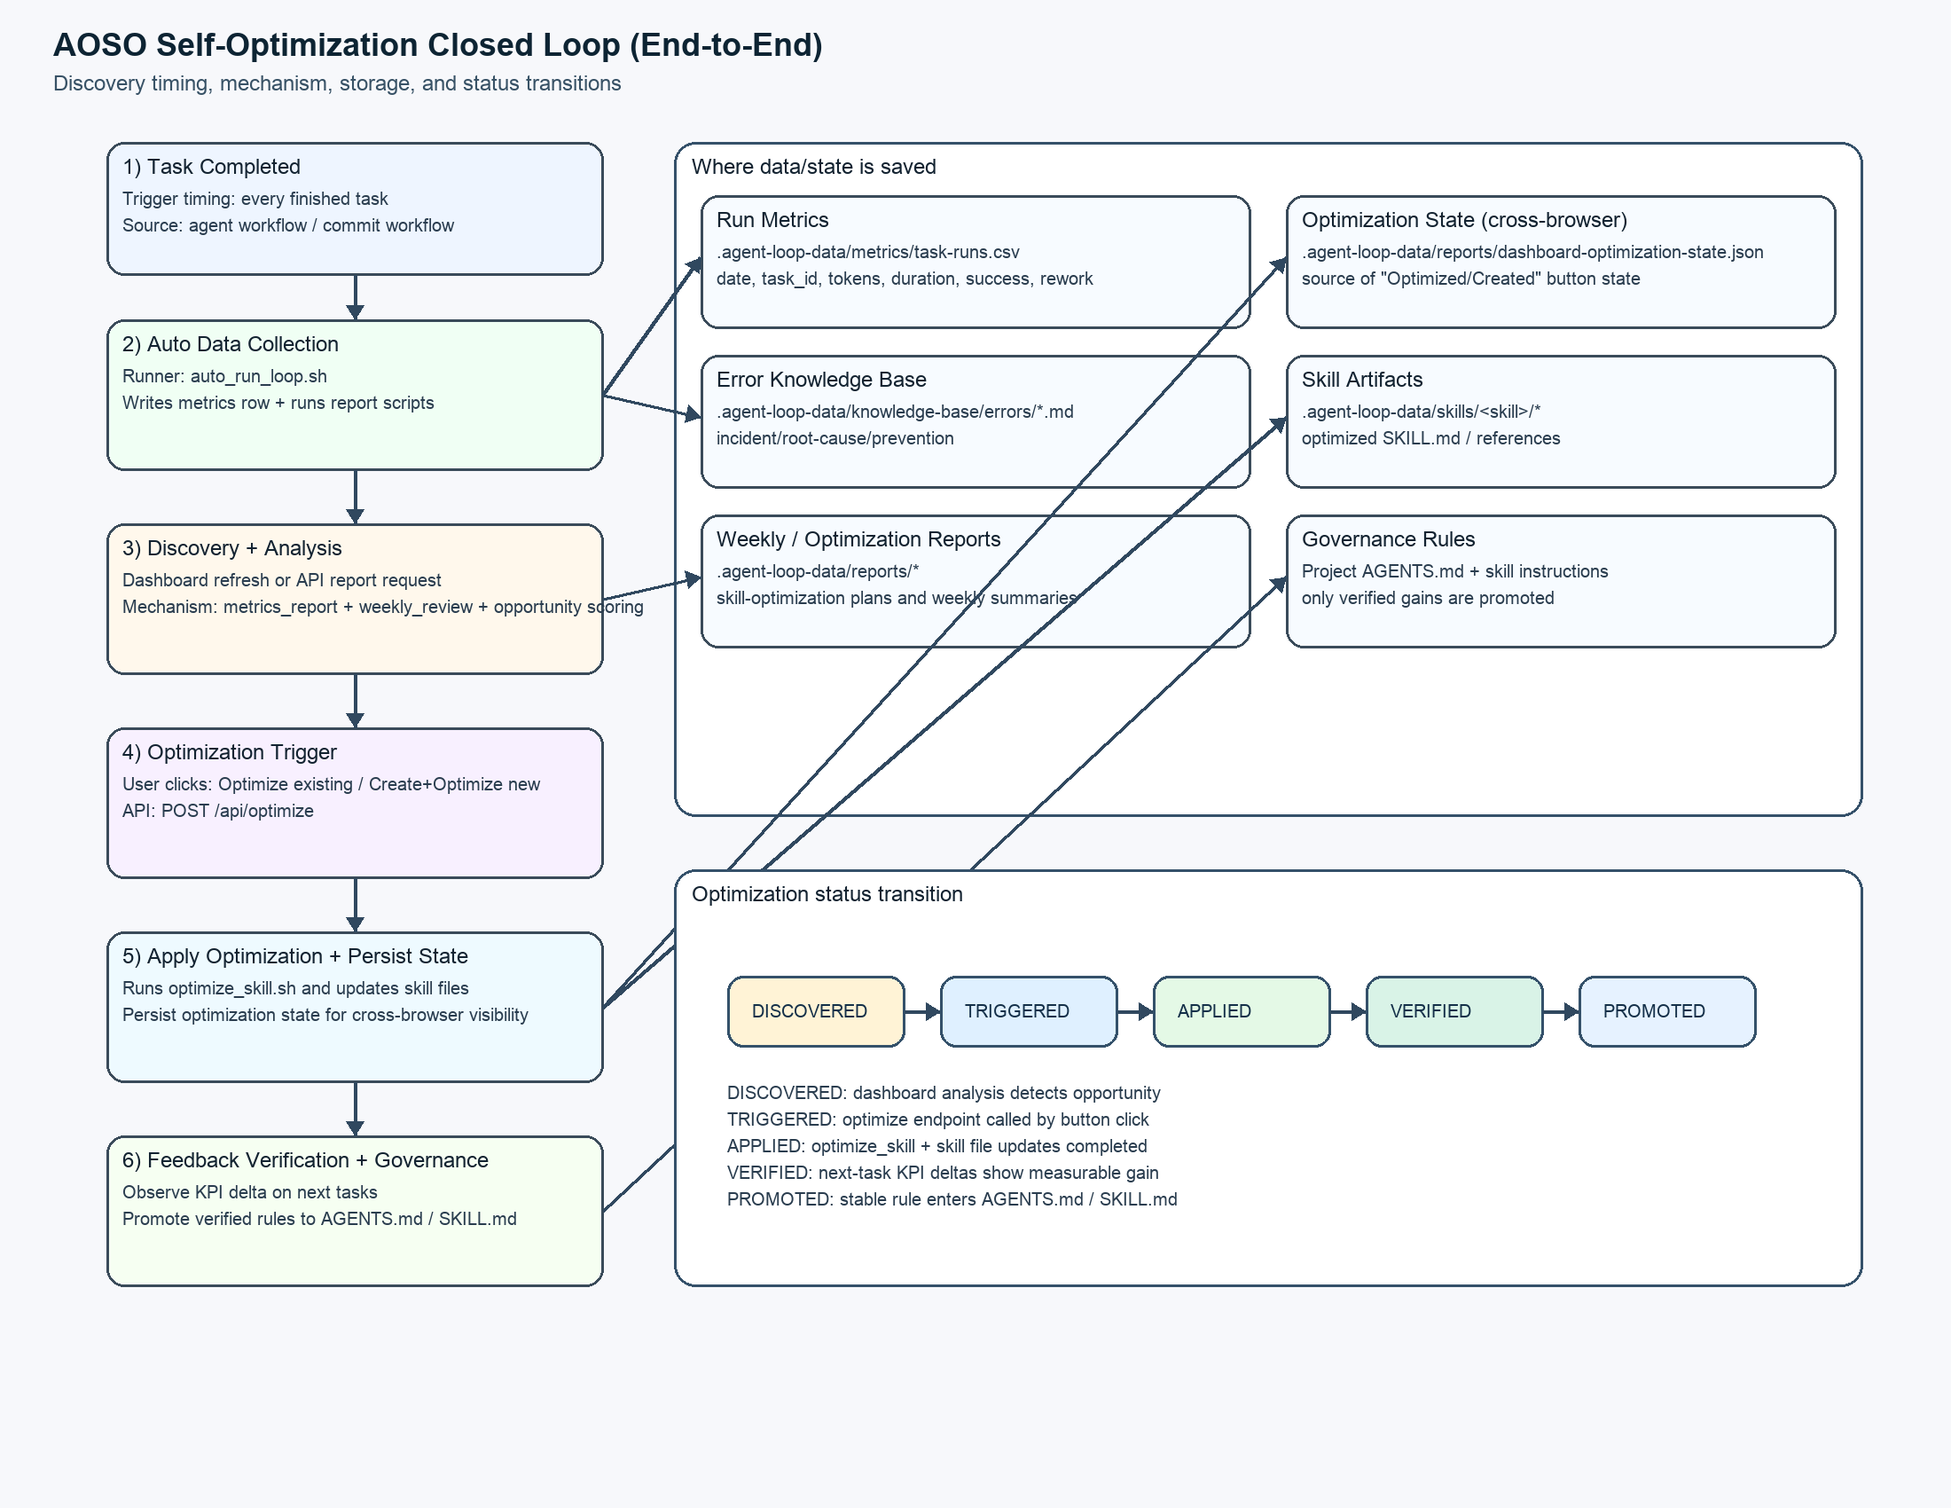
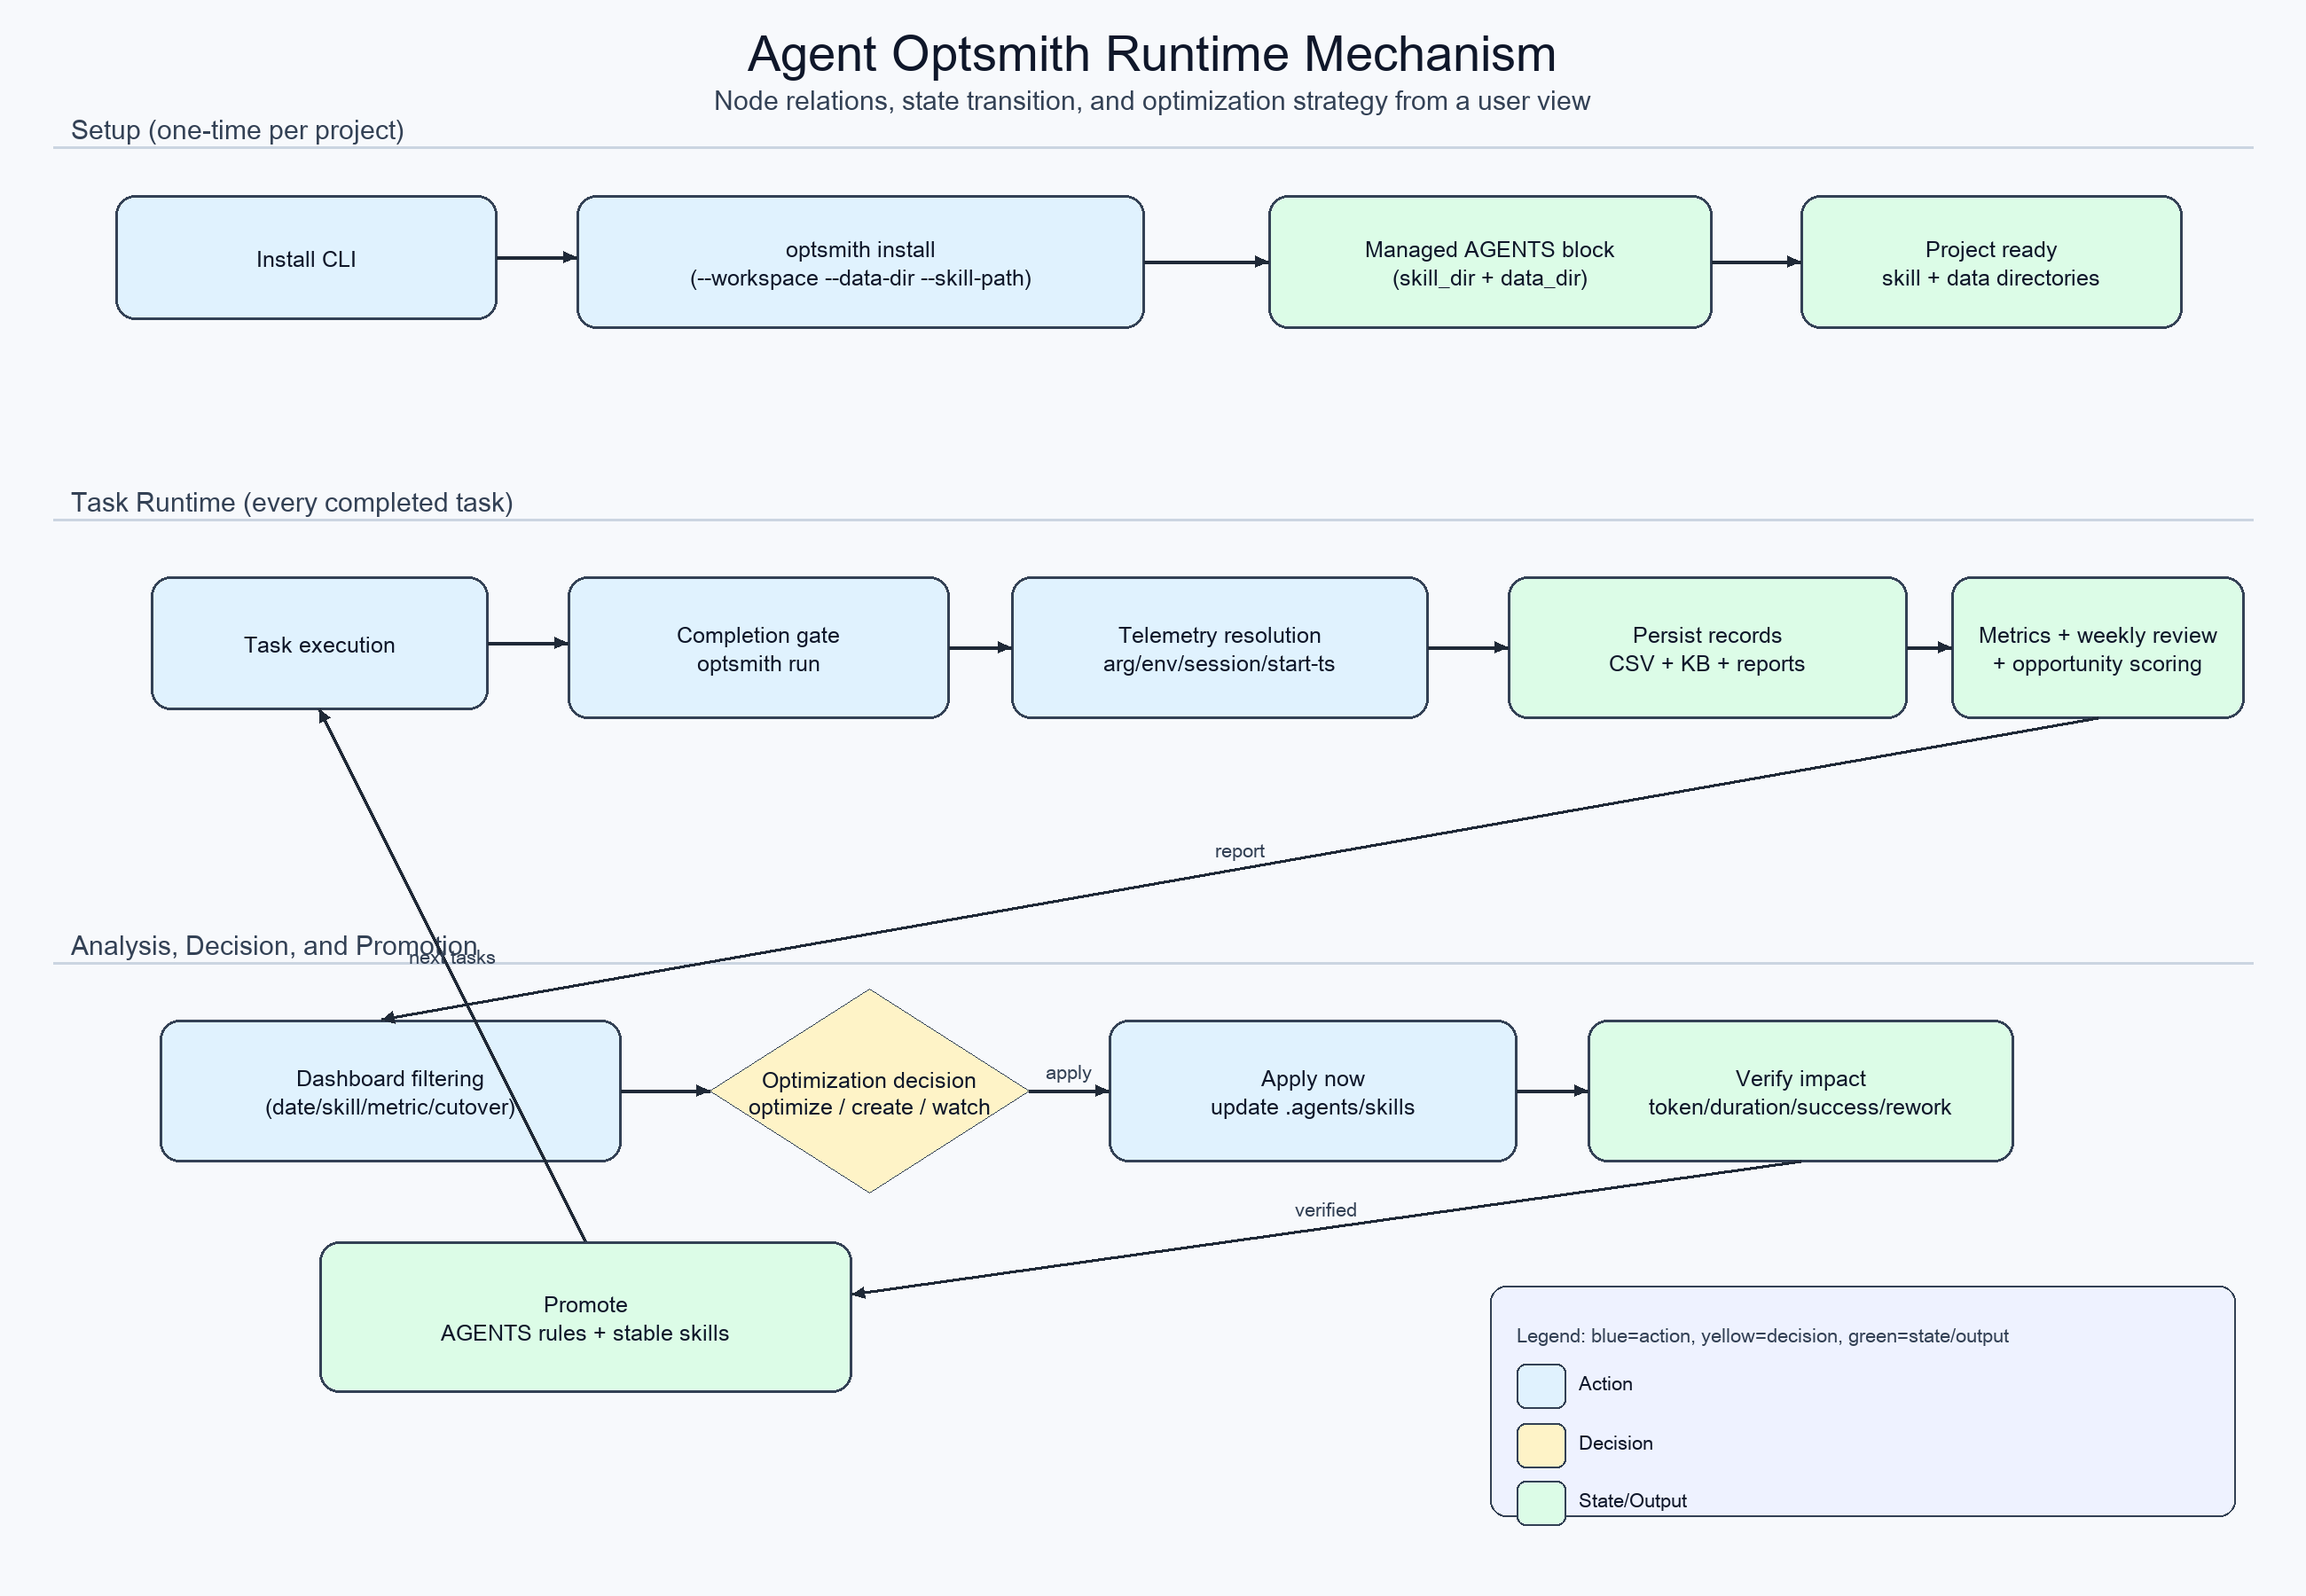
docs: redesign workflow diagram for user-facing runtime mechanism

diff --git a/README_CN.md b/README_CN.md
@@ -125,7 +125,7 @@ optsmith uninstall --workspace "$(pwd)"
 
 ### 完整 Agent 优化工匠流程图
 
-![Optsmith 优化工匠流程图](docs/assets/agent-optsmith-workflow-flow.png)
+![Agent 优化工匠流程图](docs/assets/agent-optsmith-workflow-flow-zh.png)
 
 这张图的阅读顺序：
 

diff --git a/README.md b/README.md
@@ -127,7 +127,7 @@ optsmith uninstall --workspace "$(pwd)"
 
 ### Complete Agent Optsmith Flow
 
-![Optsmith workflow flow](docs/assets/agent-optsmith-workflow-flow.png)
+![Agent Optsmith workflow map](docs/assets/agent-optsmith-workflow-flow.png)
 
 How to read this flow:
 
